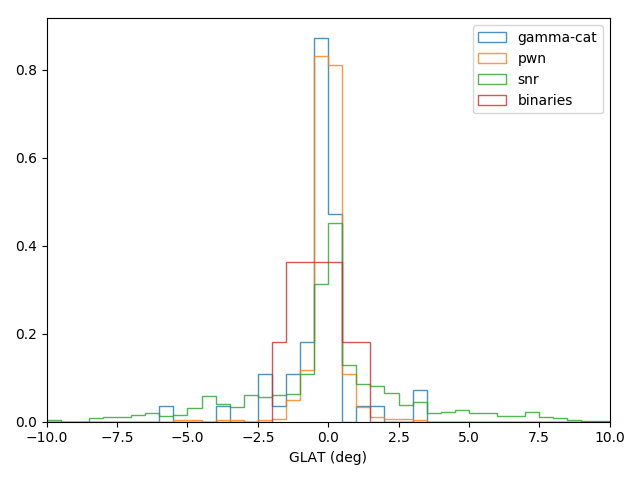
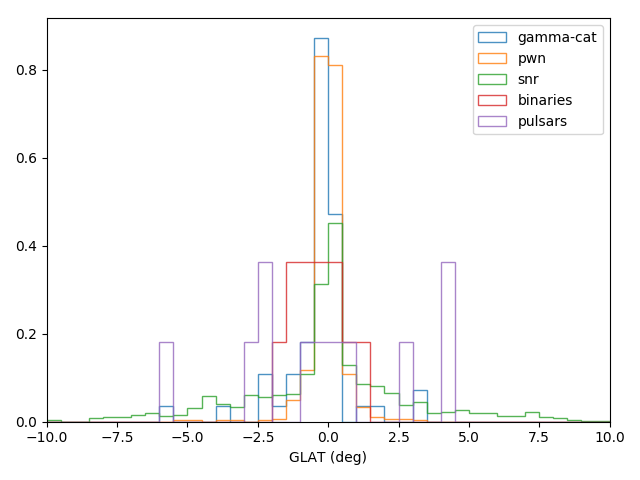
update

Changed region(s): [[0.75, 0.2188, 0.9062, 0.2812], [0.6875, 0.5312, 0.7188, 0.5625], [0.375, 0.6875, 0.4062, 0.7188]]

diff --git a/sky_model_checks/source_parameter_distributions.py b/sky_model_checks/source_parameter_distributions.py
@@ -380,15 +380,15 @@ if __name__ == '__main__':
 
     # make_source_tables()
     data = load_sky_models()
-    print_skymodel_summary(data)
+    # print_skymodel_summary(data)
 
-    plot_sky_positions(data)
+    # plot_sky_positions(data)
     # plot_glon_distribution(data)
     # plot_glat_distribution(data)
 
-    # plot_size_distribution(data)
+    plot_size_distribution(data)
 
-    # plot_galactic_xy(data)
-    # plot_galactic_z(data)
+    plot_galactic_xy(data)
+    plot_galactic_z(data)
 
-    # plot_logn_logs()
+    plot_logn_logs()
